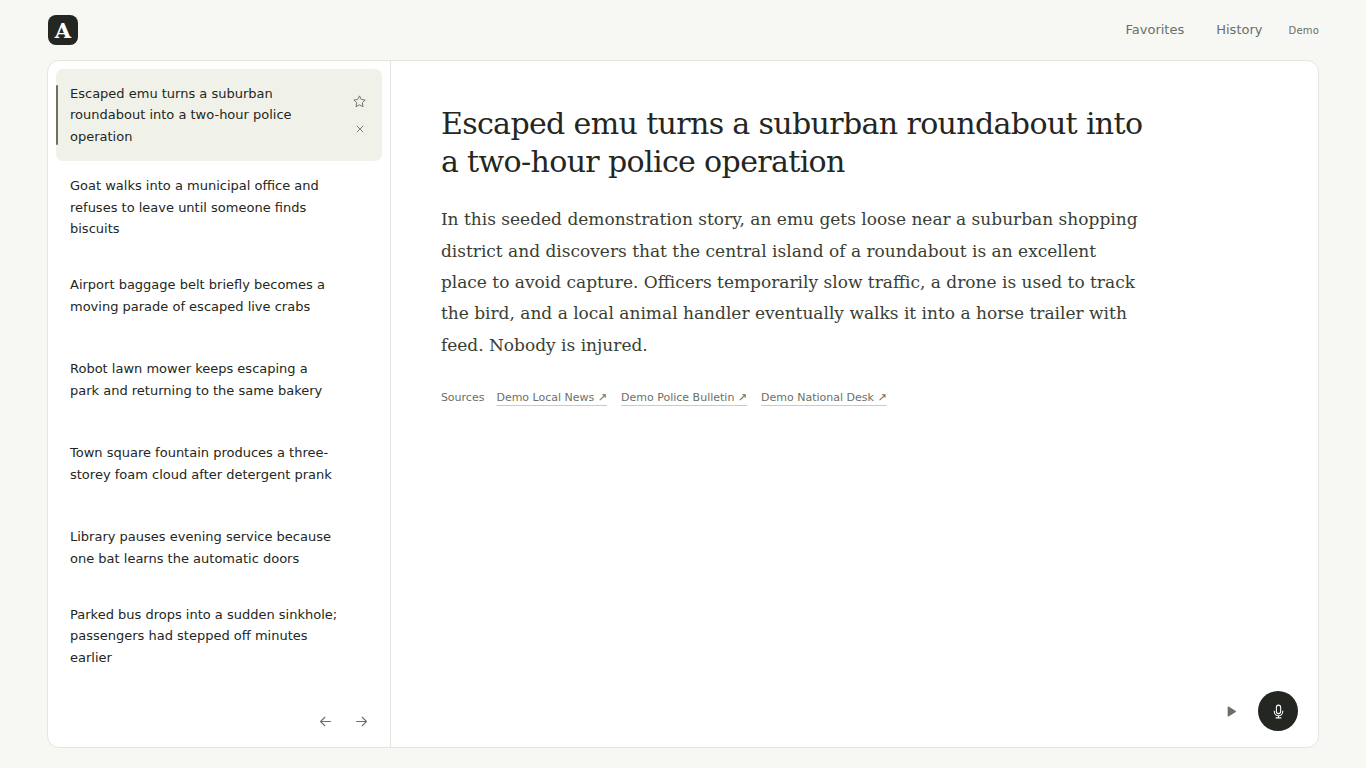
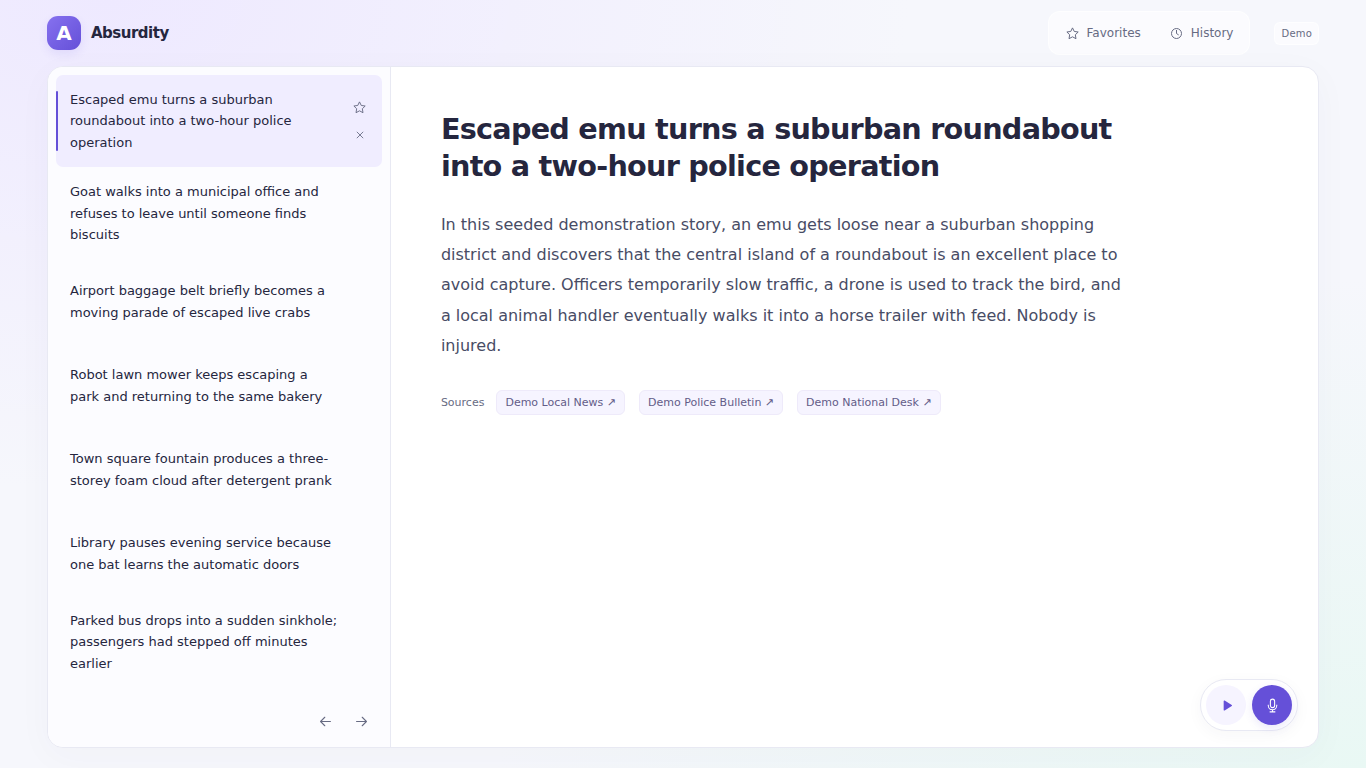
Brighten the reader with modern accents and visible voice states

diff --git a/app/globals.css b/app/globals.css
@@ -1,54 +1,54 @@
 @import "tailwindcss";
 
-:root { --bg: #f7f7f4; --paper: #fff; --ink: #242622; --muted: #6b7067; --line: #e4e6de; --soft: #f0f2ea; }
+:root { --bg: #f6f7fc; --paper: #fff; --ink: #25263e; --muted: #676b83; --line: #e8e9f3; --soft: #f0edff; --accent: #6550d8; }
 * { box-sizing: border-box; }
 html, body { margin: 0; width: 100%; height: 100%; overflow: hidden; }
-body { color: var(--ink); background: var(--bg); font-family: ui-sans-serif, system-ui, -apple-system, BlinkMacSystemFont, "Segoe UI", sans-serif; -webkit-font-smoothing: antialiased; }
+body { color: var(--ink); background: radial-gradient(ellipse at 8% 0%, #eee9ff 0, transparent 45%), radial-gradient(ellipse at 100% 100%, #e9f8f4 0, transparent 45%), var(--bg); font-family: ui-sans-serif, system-ui, -apple-system, BlinkMacSystemFont, "Segoe UI", sans-serif; -webkit-font-smoothing: antialiased; }
 button, input { font: inherit; }
 button { cursor: pointer; border: 0; background: none; color: inherit; }
 button:disabled { cursor: default; opacity: .35; }
 button, a, input { -webkit-tap-highlight-color: transparent; }
-button:focus-visible, a:focus-visible, input:focus-visible { outline: 2px solid var(--ink); outline-offset: 3px; }
+button:focus-visible, a:focus-visible, input:focus-visible { outline: 2px solid var(--accent); outline-offset: 3px; }
 button { transition: color 140ms ease, background-color 140ms ease; }
 .reader-app { width: min(1320px, 100%); height: 100dvh; min-height: 0; margin: 0 auto; padding: 0 24px 20px; display: flex; flex-direction: column; }
-.app-header { height: 60px; flex-shrink: 0; display: flex; align-items: center; gap: 24px; }
-.brand { display: grid; place-items: center; width: 40px; height: 40px; margin-left: -4px; padding: 0; border-radius: 10px; }
-.brand-icon { display: grid; place-items: center; width: 30px; height: 30px; border-radius: 8px; color: var(--paper); background: var(--ink); font-family: Georgia, "Times New Roman", serif; font-size: 21px; font-weight: 700; line-height: 1; }
-.brand:hover { background: var(--soft); }
-.tabs { display: flex; gap: 28px; margin-left: auto; align-items: center; height: 100%; }
-.tabs button { position: relative; height: 100%; padding: 0 2px; font-size: 13px; font-weight: 500; color: var(--muted); }
-.tabs button::after { position: absolute; content: ""; bottom: 12px; left: 2px; right: 2px; height: 2px; border-radius: 2px; background: transparent; }
-.tabs button:hover, .tabs button[aria-current] { color: var(--ink); }
-.tabs button[aria-current]::after { background: var(--ink); }
-.data-mode { color: var(--muted); font-size: 10px; letter-spacing: .2px; }
+.app-header { height: 66px; flex-shrink: 0; display: flex; align-items: center; gap: 24px; }
+.brand { display: flex; align-items: center; gap: 10px; height: 40px; padding: 0; border-radius: 10px; }
+.brand-name { margin: 0; font-size: 15px; font-weight: 650; letter-spacing: -.5px; }
+.brand-icon { display: grid; place-items: center; width: 34px; height: 34px; border-radius: 11px; color: var(--paper); background: linear-gradient(135deg, #8671ef, #6550d8); font-size: 20px; font-weight: 750; line-height: 1; box-shadow: 0 4px 10px #6550d81c; }
+.brand:hover .brand-name { color: var(--accent); }
+.tabs { display: flex; gap: 4px; margin-left: auto; align-items: center; padding: 4px; border: 1px solid #ffffffb3; border-radius: 12px; background: #ffffff80; }
+.tabs button { display: flex; align-items: center; justify-content: center; gap: 7px; min-height: 34px; padding: 0 12px; border-radius: 8px; font-size: 12px; font-weight: 500; color: var(--muted); }
+.tabs button:hover { color: var(--accent); background: #ffffffa6; }
+.tabs button[aria-current] { color: var(--accent); background: var(--paper); box-shadow: 0 2px 6px #3432580d; }
+.data-mode { color: var(--muted); background: #ffffff80; border: 1px solid #ffffffb3; border-radius: 6px; padding: 3px 6px; font-size: 10px; letter-spacing: .2px; }
 .data-mode:empty { display: none; }
-.reading-layout { flex: 1; min-height: 0; display: grid; grid-template-columns: minmax(250px, 27%) minmax(0, 1fr); border: 1px solid var(--line); border-radius: 12px; background: var(--paper); overflow: hidden; }
-.story-sidebar { display: flex; flex-direction: column; min-height: 0; min-width: 0; border-right: 1px solid var(--line); }
+.reading-layout { flex: 1; min-height: 0; display: grid; grid-template-columns: minmax(250px, 27%) minmax(0, 1fr); border: 1px solid var(--line); border-radius: 16px; background: var(--paper); box-shadow: 0 8px 36px #3d386608; overflow: hidden; }
+.story-sidebar { display: flex; flex-direction: column; min-height: 0; min-width: 0; border-right: 1px solid var(--line); background: #fcfcff; }
 .story-list { overflow-y: auto; min-height: 0; flex: 1; padding: 8px; }
 .story-row { position: relative; display: flex; align-items: center; padding: 14px 8px 14px 14px; gap: 8px; border-radius: 7px; touch-action: pan-y; transition: background-color 140ms ease; }
-.story-row:hover { background: #f8f9f5; }
+.story-row:hover { background: #f4f3fc; }
 .story-row.is-selected { background: var(--soft); }
-.story-row.is-selected::before { content: ""; position: absolute; left: 0; top: 16px; bottom: 16px; width: 2px; border-radius: 2px; background: #69745b; }
+.story-row.is-selected::before { content: ""; position: absolute; left: 0; top: 16px; bottom: 16px; width: 2px; border-radius: 2px; background: var(--accent); }
 .story-title { flex: 1; min-width: 0; padding: 0; text-align: left; font-size: 13px; line-height: 1.65; font-weight: 400; }
 .story-row.is-selected .story-title { font-weight: 500; }
 .row-actions { display: flex; flex-direction: column; justify-content: center; visibility: hidden; }
 .story-row:hover .row-actions, .story-row:focus-within .row-actions, .story-row.is-selected .row-actions { visibility: visible; }
 .row-actions button { display: grid; place-items: center; width: 28px; height: 28px; border-radius: 5px; color: var(--muted); padding: 0; }
-.row-actions button:hover { color: var(--ink); background: #e5e9dd; }
-.row-actions button[aria-label="Remove favorite"] { color: var(--ink); }
+.row-actions button:hover { color: var(--ink); background: #e2dcff; }
+.row-actions button[aria-label="Remove favorite"] { color: var(--accent); }
 .list-navigation { display: flex; justify-content: flex-end; align-items: center; padding: 6px 12px 10px; gap: 4px; }
 .list-navigation button { display: grid; place-items: center; width: 32px; height: 32px; padding: 0; border-radius: 6px; color: var(--muted); }
 .list-navigation button:hover:not(:disabled) { color: var(--ink); background: var(--soft); }
 .list-navigation .restore-action { width: auto; padding: 0 8px; font-size: 11px; margin-right: auto; }
 .story-reader { position: relative; display: flex; flex-direction: column; min-height: 0; min-width: 0; }
-.reader-body { flex: 1; min-height: 0; overflow-y: auto; padding: clamp(28px, 3.3vw, 44px) clamp(26px, 3.8vw, 50px) 82px; }
-.story-heading h2 { margin: 0; max-width: 720px; font-family: Georgia, "Times New Roman", serif; font-size: clamp(25px, 2.2vw, 31px); font-weight: 400; line-height: 1.25; letter-spacing: -.65px; text-wrap: pretty; }
-.story-text { max-width: 65ch; margin: 24px 0 0; font-family: Georgia, "Times New Roman", serif; font-size: 17px; line-height: 1.85; color: #393e34; }
+.reader-body { flex: 1; min-height: 0; overflow-y: auto; margin-bottom: 70px; padding: clamp(28px, 3.3vw, 44px) clamp(26px, 3.8vw, 50px) 24px; }
+.story-heading h2 { margin: 0; max-width: 720px; font-size: clamp(24px, 2.1vw, 29px); font-weight: 650; line-height: 1.3; letter-spacing: -.75px; text-wrap: pretty; }
+.story-text { max-width: 68ch; margin: 24px 0 0; font-size: 16px; line-height: 1.9; color: #484c65; }
 .source-section { max-width: 760px; display: flex; gap: 12px; align-items: baseline; margin-top: 28px; font-size: 11px; line-height: 1.6; }
-.source-section > span { color: var(--muted); }
+.source-section > span { color: var(--muted); padding-top: 4px; }
 .source-links { display: flex; flex-wrap: wrap; gap: 6px 14px; }
-.source-links a { color: var(--muted); text-decoration: underline; text-decoration-color: #c8ccc1; text-underline-offset: 4px; overflow-wrap: anywhere; }
-.source-links a:hover { color: var(--ink); text-decoration-color: var(--ink); }
+.source-links a { color: #635c88; background: #f6f4ff; border: 1px solid #eeeafa; border-radius: 6px; padding: 3px 8px; text-decoration: none; overflow-wrap: anywhere; }
+.source-links a:hover { color: var(--accent); background: var(--soft); border-color: #dcd4fb; }
 .reader-bottom { position: absolute; bottom: 16px; right: 20px; }
 .agent-prompt { width: min(300px, calc(100vw - 60px)); padding: 14px; margin-bottom: 12px; border: 1px solid var(--line); border-radius: 10px; background: var(--paper); box-shadow: 0 8px 24px #2426220a; }
 .agent-prompt p { margin: 0 0 10px; font-size: 12px; line-height: 1.5; color: var(--muted); }
@@ -56,27 +56,38 @@ button { transition: color 140ms ease, background-color 140ms ease; }
 .agent-prompt input { width: 100%; min-width: 0; border: 1px solid var(--line); border-radius: 5px; padding: 8px; font-size: 12px; }
 .agent-prompt button { display: grid; place-items: center; flex-shrink: 0; width: 28px; height: 32px; border-radius: 5px; }
 .agent-prompt button:hover { background: var(--soft); }
-.voice-controls { display: flex; justify-content: flex-end; align-items: center; gap: 8px; }
+.voice-controls { display: flex; justify-content: flex-end; align-items: center; gap: 6px; padding: 5px; border: 1px solid var(--line); border-radius: 28px; background: var(--paper); box-shadow: 0 4px 16px #3432580a; }
+.voice-indicator { display: flex; align-items: center; gap: 8px; padding: 0 8px; color: var(--accent); font-size: 11px; font-weight: 500; }
+.voice-wave { display: flex; align-items: center; gap: 2px; height: 14px; }
+.voice-wave i { width: 2px; height: 5px; border-radius: 2px; background: currentColor; }
+.voice-wave i:nth-child(2) { height: 12px; }
+.voice-wave i:nth-child(3) { height: 8px; }
+.voice-indicator.is-listening .voice-wave i { animation: wave 900ms ease-in-out infinite alternate; }
+.voice-wave i:nth-child(2) { animation-delay: 150ms; }
+.voice-wave i:nth-child(3) { animation-delay: 300ms; }
+@keyframes wave { to { transform: scaleY(.45); } }
 .read-button, .talk-button { width: 40px; height: 40px; display: grid; place-items: center; padding: 0; border-radius: 50%; }
-.read-button { color: var(--muted); background: var(--paper); }
+.read-button { color: var(--accent); background: #f6f4ff; }
 .read-button:hover:not(:disabled) { color: var(--ink); background: var(--soft); }
-.talk-button { background: var(--ink); color: var(--paper); }
-.talk-button:hover { background: #3d4237; }
-.talk-button.is-listening { background: #37563b; }
+.talk-button { background: var(--accent); color: var(--paper); box-shadow: 0 3px 8px #6550d822; }
+.talk-button:hover { background: #5640c7; }
+.talk-button.is-listening { background: #16846a; }
 .loading-ring { animation: turn 1s linear infinite; }
 @keyframes turn { to { transform: rotate(360deg); } }
 .empty-state { margin: 0; padding: 20px; color: var(--muted); font-size: 13px; line-height: 1.7; }
 .voice-status { position: absolute; width: 1px; height: 1px; overflow: hidden; clip-path: inset(50%); }
-.abs-scrollbar { scrollbar-width: thin; scrollbar-color: #d3d8ca transparent; }
+.abs-scrollbar { scrollbar-width: thin; scrollbar-color: #d8d6e9 transparent; }
 @media (max-width: 640px) {
   .reader-app { padding: 0 10px 10px; }
-  .app-header { height: 52px; gap: 18px; }
-  .brand { width: 36px; height: 36px; }
-  .brand-icon { width: 28px; height: 28px; font-size: 19px; }
-  .tabs { gap: 22px; }
-  .tabs button { font-size: 12px; }
-  .tabs button::after { bottom: 9px; }
-  .reading-layout { grid-template-columns: 1fr; grid-template-rows: minmax(0, 24%) minmax(0, 1fr); border-radius: 9px; }
+  .app-header { height: 58px; gap: 10px; }
+  .brand { gap: 7px; height: 36px; }
+  .brand-name { font-size: 13px; letter-spacing: -.4px; }
+  .brand-icon { width: 28px; height: 28px; border-radius: 9px; font-size: 17px; }
+  .tabs { gap: 2px; padding: 3px; border-radius: 10px; }
+  .tabs button { font-size: 11px; padding: 0 8px; gap: 5px; min-height: 30px; }
+  .tabs svg { width: 13px; height: 13px; }
+  .data-mode { font-size: 9px; padding: 2px 4px; }
+  .reading-layout { grid-template-columns: 1fr; grid-template-rows: minmax(0, 24%) minmax(0, 1fr); border-radius: 12px; }
   .story-sidebar { border-right: 0; border-bottom: 1px solid var(--line); }
   .story-list { padding: 4px; }
   .story-row { padding: 8px 6px 8px 11px; gap: 4px; }
@@ -86,10 +97,12 @@ button { transition: color 140ms ease, background-color 140ms ease; }
   .row-actions button { width: 26px; height: 28px; }
   .list-navigation { padding: 0 6px 2px; }
   .list-navigation button { height: 28px; }
-  .reader-body { padding: 24px 20px 74px; }
-  .story-heading h2 { font-size: 23px; line-height: 1.25; letter-spacing: -.4px; }
-  .story-text { font-size: 16px; line-height: 1.8; margin-top: 20px; }
+  .reader-body { padding: 24px 20px 24px; }
+  .story-heading h2 { font-size: 22px; line-height: 1.35; letter-spacing: -.5px; }
+  .story-text { font-size: 15px; line-height: 1.85; margin-top: 20px; }
   .source-section { margin-top: 24px; gap: 10px; }
+  .source-links { gap: 6px; }
+  .voice-indicator { padding: 0 5px; font-size: 10px; }
   .reader-bottom { bottom: 12px; right: 14px; }
 }
 @media (max-height: 450px) and (min-width: 641px) { .app-header { height: 42px; } .reader-app { padding-bottom: 10px; } .reader-body { padding-top: 22px; } }

diff --git a/app/page.tsx b/app/page.tsx
@@ -398,14 +398,14 @@ export default function Home() {
   return (
     <main className="reader-app">
       <header className="app-header">
-        <button className="brand" onClick={() => changeTab("home")} aria-label="New stories" title="New stories">
+        <button className="brand" onClick={() => changeTab("home")} aria-label="New stories" aria-current={tab === "home" ? "page" : undefined} title="New stories">
           <span className="brand-icon" aria-hidden="true">A</span>
-          <h1 className="sr-only">Absurdity</h1>
+          <h1 className="brand-name">Absurdity</h1>
         </button>
         <nav className="tabs" aria-label="Story views">
           {([ ["favorites", "Favorites"], ["history", "History"] ] as const).map(([id, label]) => (
             <button key={id} onClick={() => changeTab(id)} aria-current={tab === id ? "page" : undefined}>
-              {label}
+              {id === "favorites" ? <svg width="15" height="15" viewBox="0 0 24 24" fill="none" stroke="currentColor" strokeWidth="1.6" strokeLinejoin="round" aria-hidden="true"><path d="m12 3 2.8 5.7 6.3.9-4.6 4.4 1.1 6.3-5.6-3-5.6 3 1.1-6.3L3 9.6l6.2-.9L12 3Z"/></svg> : <svg width="15" height="15" viewBox="0 0 24 24" fill="none" stroke="currentColor" strokeWidth="1.6" strokeLinecap="round" aria-hidden="true"><circle cx="12" cy="12" r="8"/><path d="M12 7v5l3 2"/></svg>}{label}
             </button>
           ))}
         </nav>
@@ -465,6 +465,7 @@ export default function Home() {
             </form>}
 
             <div className="voice-controls">
+              {(listening || voiceState !== "idle") && <span className={`voice-indicator ${listening ? "is-listening" : ""}`} role="status"><span className="voice-wave" aria-hidden="true"><i/><i/><i/></span>{listening ? "Listening" : voiceState === "loading" ? "Preparing" : "Reading"}</span>}
               <button onClick={narrate} disabled={!visibleStories.length} className="read-button" aria-label={voiceState === "loading" ? "Preparing…" : voiceState === "playing" ? "Stop reading" : "Read aloud"} title="Read aloud">
                 {voiceState === "loading" ? <svg className="loading-ring" width="17" height="17" viewBox="0 0 24 24" fill="none" stroke="currentColor" strokeWidth="1.5" aria-hidden="true"><circle cx="12" cy="12" r="8" strokeDasharray="34 16"/></svg> : voiceState === "playing" ? <svg width="16" height="16" viewBox="0 0 24 24" fill="currentColor" aria-hidden="true"><rect x="6" y="6" width="12" height="12" rx="2"/></svg> : <svg width="17" height="17" viewBox="0 0 24 24" fill="currentColor" aria-hidden="true"><path d="M8 5.8c0-.7.8-1.1 1.4-.7l10 6.2a.8.8 0 0 1 0 1.4l-10 6.2c-.6.4-1.4 0-1.4-.7V5.8Z"/></svg>}
               </button>

diff --git a/docs/QA.md b/docs/QA.md
@@ -4,7 +4,7 @@
 
 The October notebook defines a simple interface: New stories, Favorites and History; a scrollable title list beside a scrollable story; source links after the article; and a speak button for navigation. The homepage covers the current 48 hours, with older stories retained in History.
 
-The reader now follows that layout. Per-story category badges, ranked metadata, repeated instructions, large verification cards and the promotional subtitle have been removed from the default view. Story details, standalone dates, confidence, selection reasoning and verification sections have been removed entirely from the reader. Only the article title is a visible heading. Source links follow the article inside the scrolling reading pane. Small read/talk controls stay at its bottom-right. Manual search/date fields, story counts and repeated favorite controls have been removed. Requested navigation instructions search stored stories; they never invoke discovery. A compact typed instruction box appears only when speech recognition is unavailable or microphone access is denied. On phones the title list sits above the reading pane within the viewport. The visual polish uses a soft off-white canvas, a restrained rounded frame, an inset selected row, system serif article typography and consistent SVG controls. It adds no fonts, requests or dependencies.
+The reader now follows that layout. Per-story category badges, ranked metadata, repeated instructions, large verification cards and the promotional subtitle have been removed from the default view. Story details, standalone dates, confidence, selection reasoning and verification sections have been removed entirely from the reader. Only the article title is a visible heading. Source links follow the article inside the scrolling reading pane. Small read/talk controls stay at its bottom-right. Manual search/date fields, story counts and repeated favorite controls have been removed. Requested navigation instructions search stored stories; they never invoke discovery. A compact typed instruction box appears only when speech recognition is unavailable or microphone access is denied. On phones the title list sits above the reading pane within the viewport. The visual polish uses a faint lavender/mint canvas, violet accents, pill tabs and source links, an inset selected row, readable system sans-serif typography and consistent SVG controls. A small floating dock shows listening, preparing and reading states, with reserved space so it cannot cover the article or source links. It adds no fonts, requests or dependencies.
 
 ## Verified
 

diff --git a/README.md b/README.md
@@ -86,7 +86,9 @@ Where the browser exposes the Web Speech recognition API, the interface understa
 
 Navigation searches only stored stories when requested; it does not invoke web research or discovery. Exact publication-date instructions use Johannesburg calendar days; demo relative periods anchor to the newest fixture.
 
-Narration works independently through ElevenLabs when configured and falls back to browser text-to-speech.
+The microphone uses browser speech recognition and keeps listening until toggled off or told `stop listening`. Recognized instructions go through the local navigation parser; requested searches query only the stored archive. The separate Groq chat endpoint is not wired into this voice interface, so the current experience is command-based rather than a conversational LLM agent. If recognition is unsupported or permission is denied, typed navigation becomes available.
+
+The play button or `read` reads the selected title and article through ElevenLabs when configured, falling back to browser text-to-speech when unavailable. Search confirmations use browser speech. `stop` stops narration; changing the story or view also cancels it. The control dock shows listening, preparing and reading states.
 
 ## Live research pipeline
 
